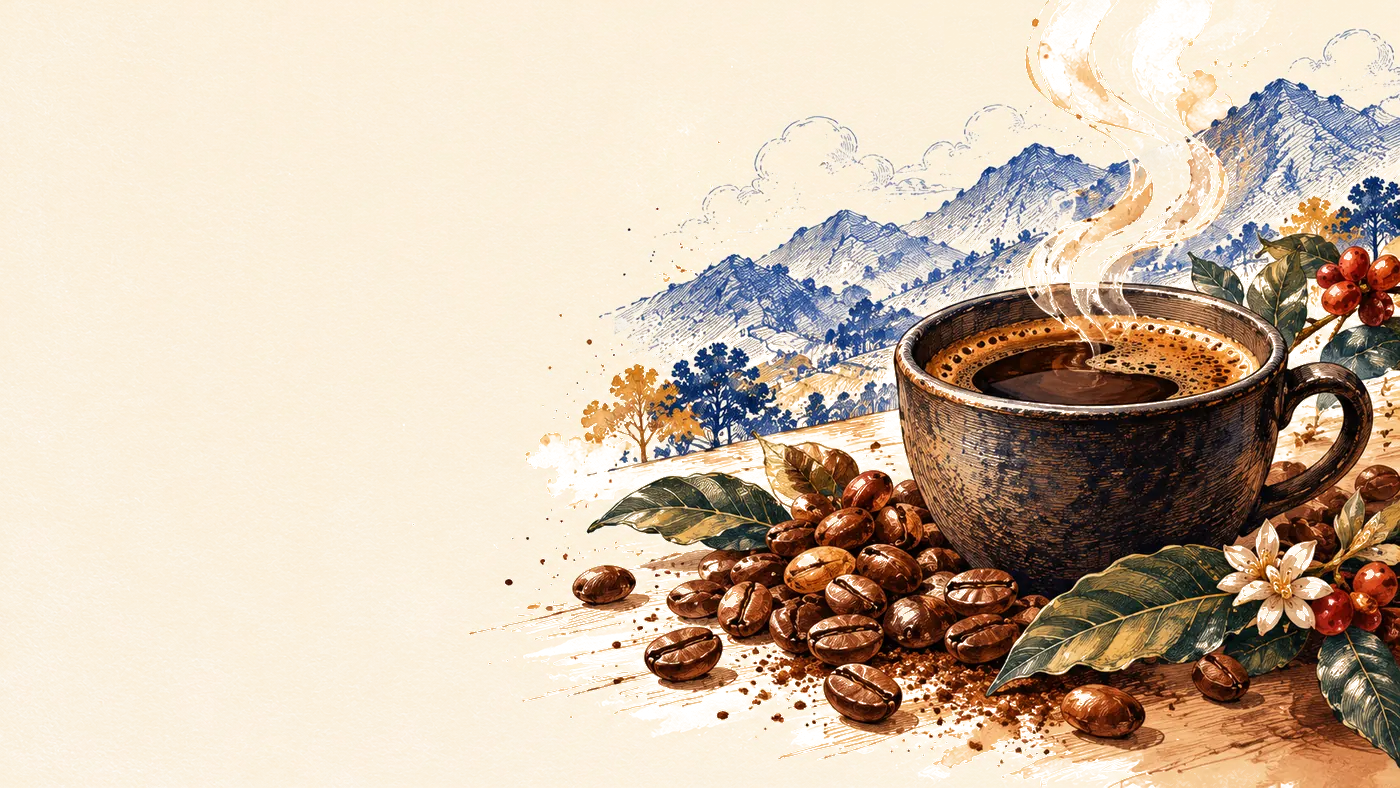
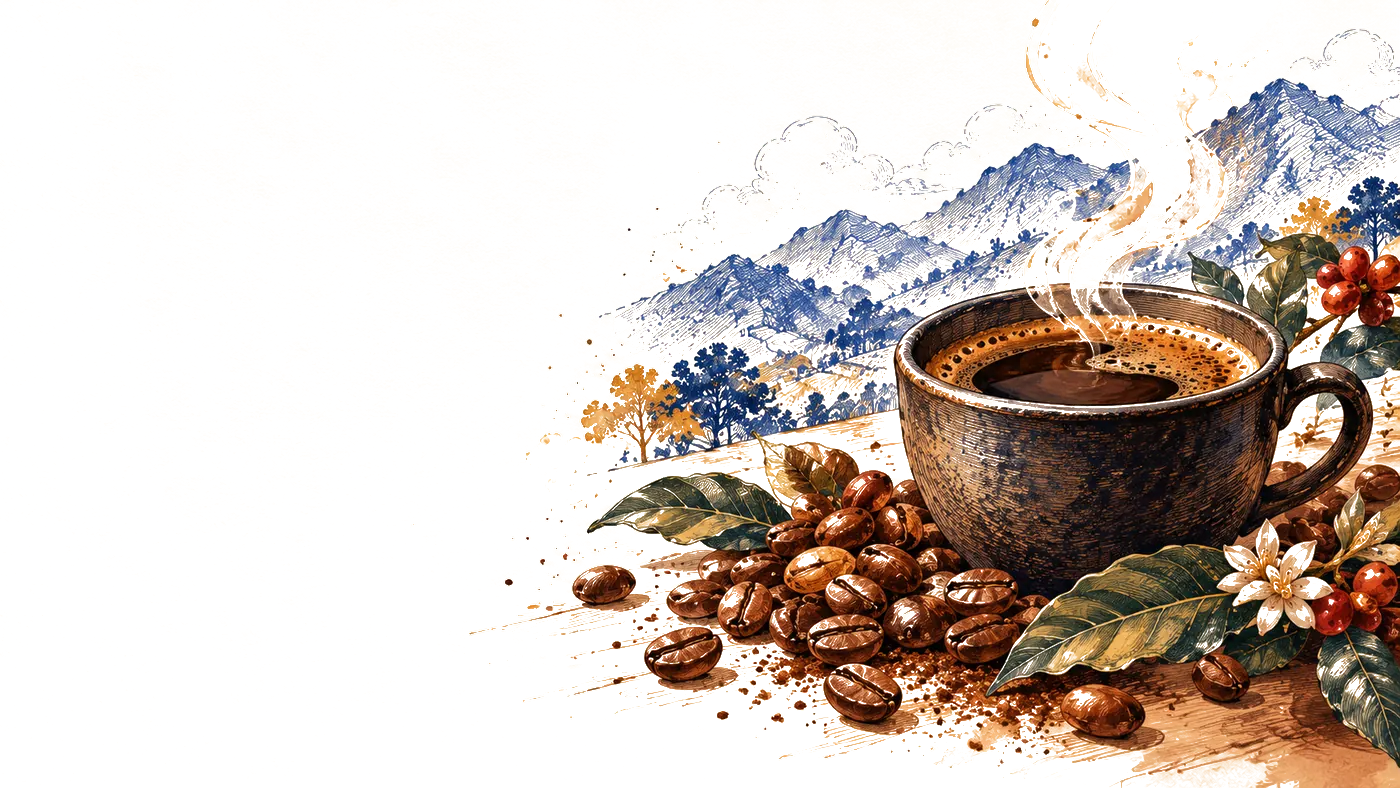
fix(web): soften illustration and ribbon edges in the vintage process

diff --git a/absent-apogee/src/styles/global.css b/absent-apogee/src/styles/global.css
@@ -79,7 +79,12 @@ html:not(.animado) .apertura__grano, html:not(.animado) .apertura__frase { displ
 .capitulo { position: relative; display: grid; grid-template-columns: 7fr 5fr; align-items: center; gap: 48px; }
 .capitulo--der { grid-template-columns: 5fr 7fr; }
 .capitulo--der .capitulo__img { order: 2; }
-.capitulo__texto { display: grid; gap: 16px; padding: 24px; background: var(--papel); border-radius: 24px; }
+.capitulo__img {
+  --borde: linear-gradient(90deg, transparent, #000 7%, #000 93%, transparent), linear-gradient(transparent, #000 7%, #000 93%, transparent);
+  -webkit-mask-image: var(--borde); mask-image: var(--borde);
+  -webkit-mask-composite: source-in; mask-composite: intersect;
+}
+.capitulo__texto { display: grid; gap: 16px; padding: 24px; background: var(--papel); border-radius: 48px; box-shadow: 0 0 48px 32px var(--papel); }
 
 /* The 50 */
 .cincuenta { height: 260vh; }
